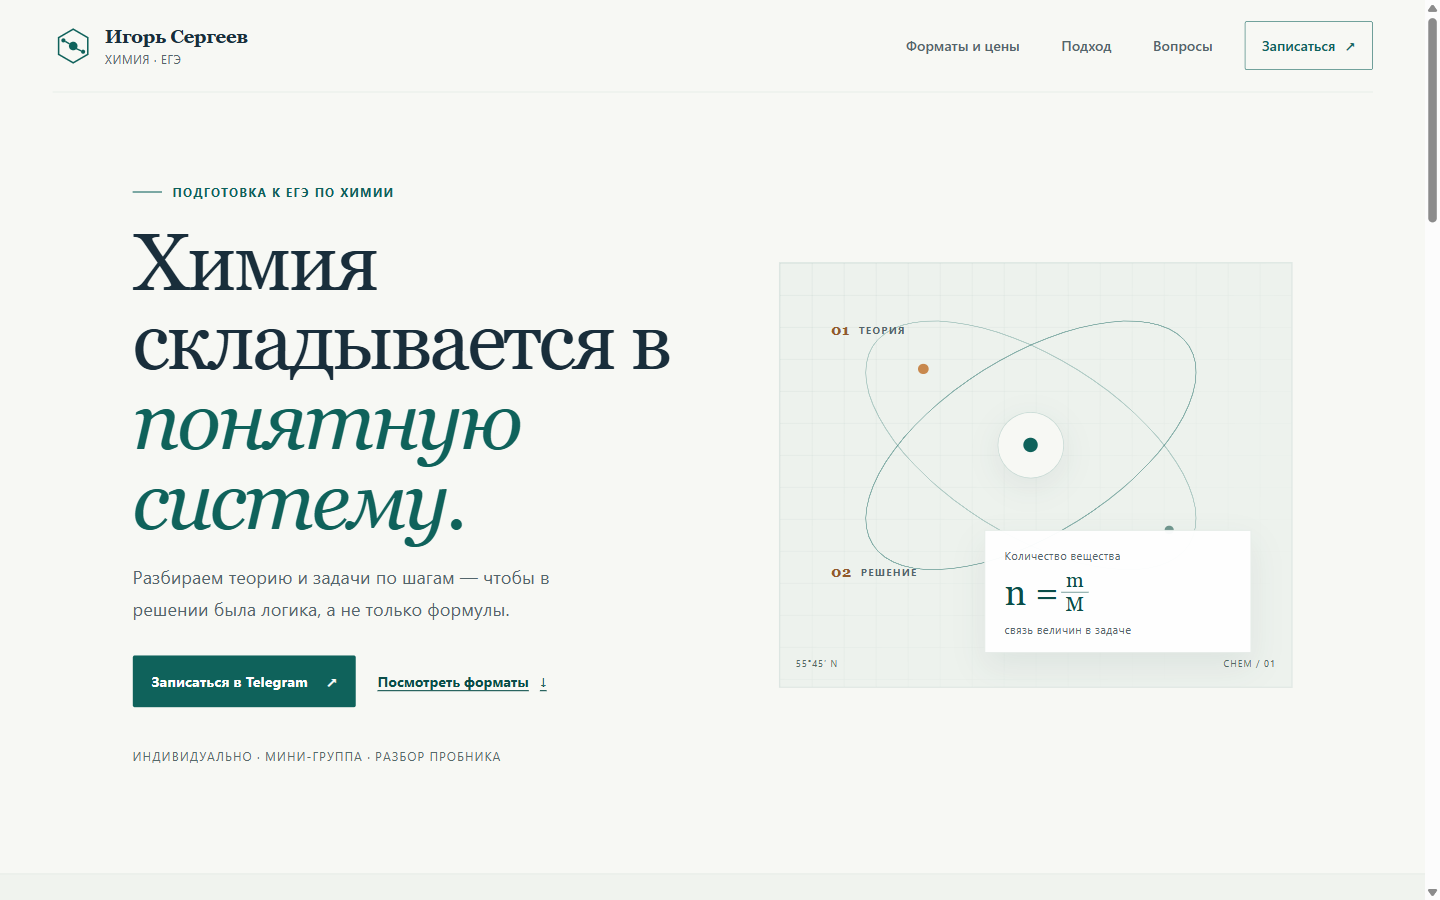
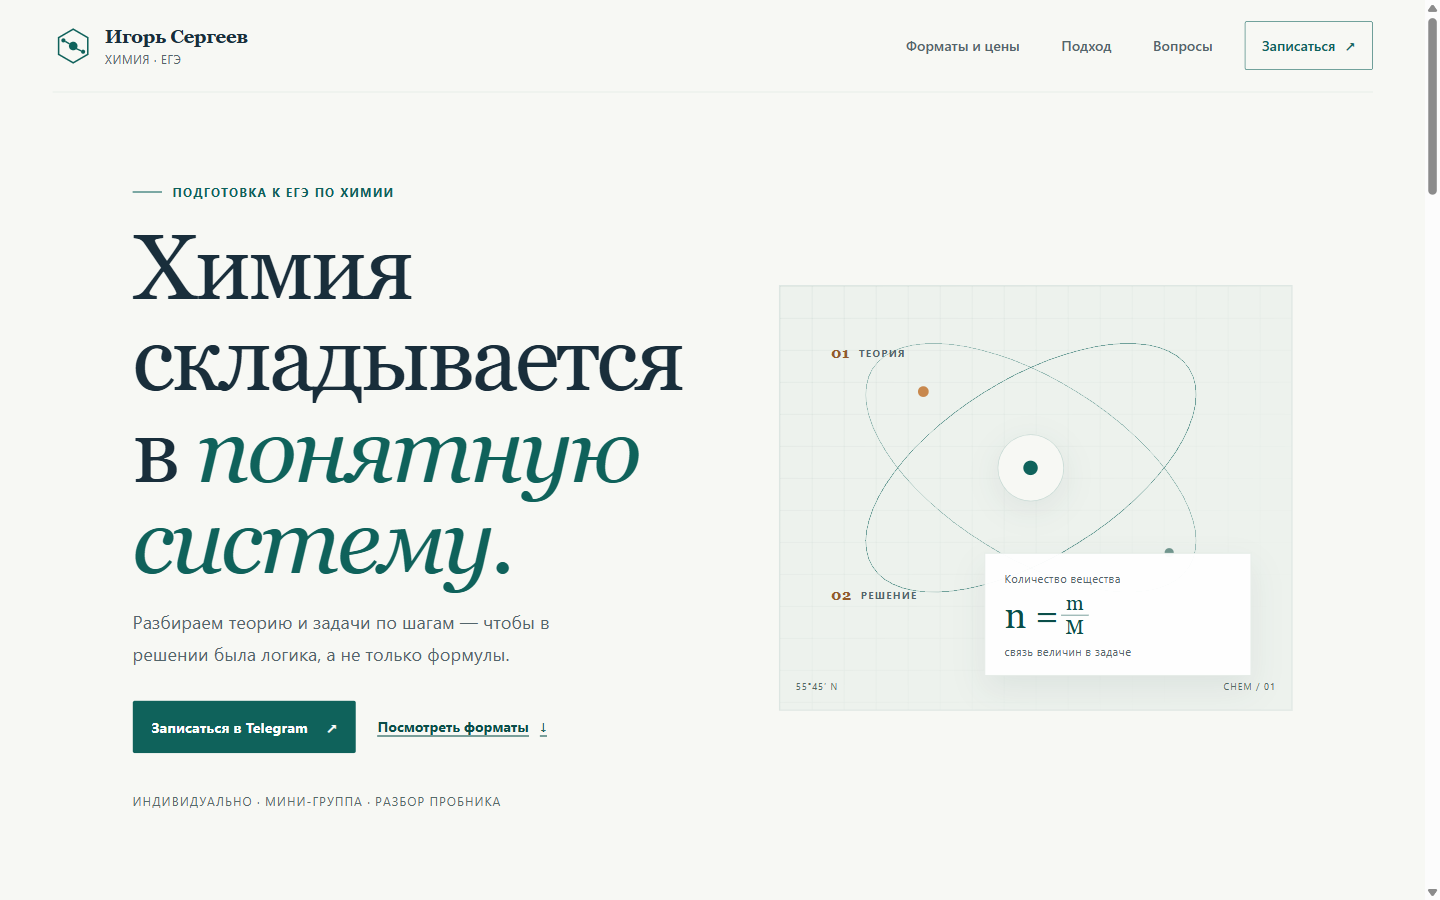
content: real site chat (widget + api base) and gallery

diff --git a/previews/igor-chem/styles.css b/previews/igor-chem/styles.css
@@ -118,7 +118,7 @@ h1, h2 { font-family: var(--font-display); font-weight: 500; letter-spacing: -0.
 h1 {
   max-width: 11ch;
   margin-bottom: 1.25rem;
-  font-size: clamp(3.2rem, 5.6vw, 5.15rem);
+  font-size: clamp(3.6rem, 6.4vw, 6rem);
   line-height: 0.99;
 }
 h1 em { color: var(--primary); font-weight: 500; }
@@ -212,6 +212,7 @@ h2 { margin-bottom: 0; font-size: clamp(2.5rem, 4vw, 3.75rem); line-height: 1.04
 .duration { min-height: 1.5rem; margin: 0.4rem 0 1.1rem; color: var(--muted); font-size: 0.76rem; }
 .card-link { display: flex; justify-content: space-between; align-items: center; padding-top: 0.85rem; border-top: 1px solid var(--line); color: var(--primary-dark); font-size: 0.83rem; font-weight: 700; text-decoration: none; }
 .card-link:hover { color: #743f15; }
+.formats-cta { display: flex; justify-content: center; margin-top: 1.5rem; }
 
 .approach { padding-block: 6.6rem; background: #eaf0eb; }
 .approach-layout { display: grid; grid-template-columns: minmax(0, 0.92fr) minmax(350px, 1fr); gap: clamp(3rem, 10vw, 9rem); align-items: center; }
@@ -234,6 +235,14 @@ h2 { margin-bottom: 0; font-size: clamp(2.5rem, 4vw, 3.75rem); line-height: 1.04
 .clarity-note { padding-left: 1.3rem; border-left: 1px solid #b7cbc1; }
 .clarity-note-mark { color: var(--accent); font-family: var(--font-display); font-size: 2rem; line-height: 1; }
 .clarity-note p { margin: 0.6rem 0 0; color: #40565c; font-family: var(--font-display); font-size: 1.16rem; line-height: 1.35; }
+
+.reviews { padding-block: 5.8rem 6.2rem; border-top: 1px solid var(--line); }
+.reviews-heading { align-items: end; }
+.reviews-heading h2 { margin: 0; }
+.review-grid { display: grid; grid-template-columns: repeat(3, minmax(0, 1fr)); gap: 1rem; }
+.review-card { min-height: 190px; padding: 1.4rem 1.45rem; border: 1px solid var(--line); background: var(--surface); }
+.review-label { margin: 0; color: var(--primary); font-size: 0.68rem; font-weight: 700; letter-spacing: 0.12em; text-transform: uppercase; }
+.review-card blockquote { margin: 1.25rem 0 0; color: var(--ink); font-family: var(--font-display); font-size: 1.22rem; line-height: 1.5; }
 
 .faq { display: grid; grid-template-columns: minmax(230px, 0.7fr) minmax(0, 1.3fr); gap: clamp(3rem, 9vw, 8rem); padding-block: 6.5rem 7.3rem; border-top: 1px solid var(--line); }
 .faq-heading .eyebrow { margin-bottom: 1rem; }
@@ -294,7 +303,7 @@ details[open] .faq-toggle::after { transform: translate(-50%, -50%) rotate(0); }
   .hero { grid-template-columns: 1fr; gap: 2.4rem; padding-block: 3.2rem 3rem; }
   .hero-copy { padding: 0; }
   .eyebrow { margin-bottom: 1rem; font-size: 0.65rem; }
-  h1 { max-width: 10ch; margin-bottom: 1rem; font-size: clamp(3rem, 13vw, 4.15rem); }
+  h1 { max-width: 10ch; margin-bottom: 1rem; font-size: clamp(3.3rem, 15vw, 4.6rem); }
   .hero-lead { margin-bottom: 1.4rem; font-size: 0.98rem; }
   .hero-actions { align-items: flex-start; gap: 1rem 1.15rem; }
   .button { min-height: 3rem; padding-inline: 0.9rem; font-size: 0.82rem; }
@@ -313,6 +322,8 @@ details[open] .faq-toggle::after { transform: translate(-50%, -50%) rotate(0); }
   .card-description { min-height: 0; margin-bottom: 1rem; }
   .price strong { font-size: 1.95rem; }
   .duration { min-height: 0; margin-bottom: 0.95rem; }
+  .formats-cta { margin-top: 1rem; }
+  .formats-cta .button { width: 100%; }
   .approach { padding-block: 4.5rem; }
   .approach-layout { grid-template-columns: 1fr; gap: 2.2rem; }
   .approach-copy h2 { max-width: 11ch; }
@@ -325,6 +336,11 @@ details[open] .faq-toggle::after { transform: translate(-50%, -50%) rotate(0); }
   .clarity-copy h2 { font-size: 2.35rem; }
   .clarity-copy > p:last-child { font-size: 0.88rem; }
   .clarity-note { grid-column: 2; margin-top: 0.2rem; }
+  .reviews { padding-block: 4.5rem 5rem; }
+  .reviews-heading { gap: 0.7rem; }
+  .review-grid { grid-template-columns: 1fr; gap: 0.75rem; }
+  .review-card { min-height: 0; padding: 1.25rem 1.15rem; }
+  .review-card blockquote { margin-top: 0.9rem; font-size: 1.12rem; }
   .faq { grid-template-columns: 1fr; gap: 1.4rem; padding-block: 4.5rem 5rem; }
   .faq-heading h2 { max-width: 12ch; }
   .faq-heading > p:last-child { margin-bottom: 0; }

diff --git a/previews/igor-chem/index.html b/previews/igor-chem/index.html
@@ -110,6 +110,9 @@
           <a class="card-link" href="https://t.me/online_bronirovanie_robot">Записаться <span aria-hidden="true">→</span></a>
         </article>
       </div>
+      <div class="formats-cta">
+        <a class="button button-primary" href="https://t.me/online_bronirovanie_robot">Записаться на пробное <span aria-hidden="true">↗</span></a>
+      </div>
     </section>
 
     <section class="approach" id="approach" aria-labelledby="approach-title">
@@ -147,6 +150,27 @@
         <p>Разобраться, что означает запись, когда она помогает и как из неё получается ответ. Так теория и задания остаются частью одной темы.</p>
       </div>
       <div class="clarity-note"><span class="clarity-note-mark" aria-hidden="true">∴</span><p>Понимать ход решения<br>важнее, чем угадывать формулу.</p></div>
+    </section>
+
+    <section class="reviews section-wrap" aria-labelledby="reviews-title">
+      <div class="section-heading reviews-heading">
+        <h2 id="reviews-title">Отзывы</h2>
+        <p class="section-intro">Вымышленные примеры, не реальные отзывы учеников.</p>
+      </div>
+      <div class="review-grid">
+        <article class="review-card">
+          <p class="review-label">Пример</p>
+          <blockquote>«Разбираем задачи по шагам — теперь понятно, с чего начать решение».</blockquote>
+        </article>
+        <article class="review-card">
+          <p class="review-label">Пример</p>
+          <blockquote>«Можно остановиться на сложном месте и спокойно пройти его ещё раз».</blockquote>
+        </article>
+        <article class="review-card">
+          <p class="review-label">Пример</p>
+          <blockquote>«На занятии связываем тему с заданиями ЕГЭ и сразу тренируемся».</blockquote>
+        </article>
+      </div>
     </section>
 
     <section class="faq section-wrap" id="questions" aria-labelledby="faq-title">
